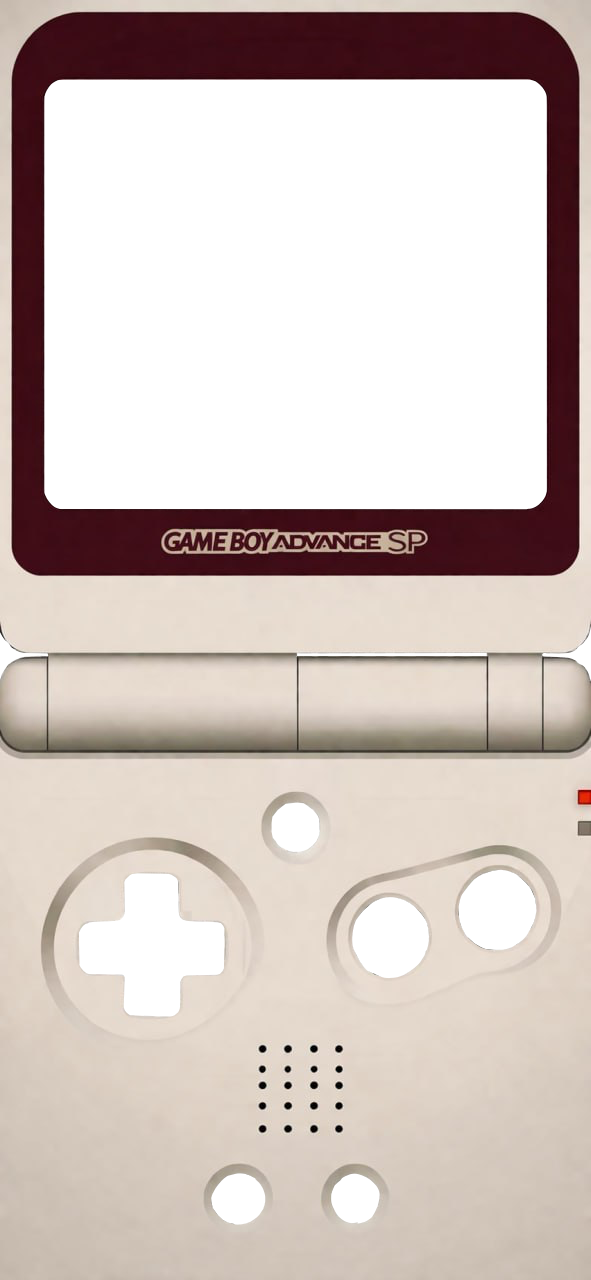
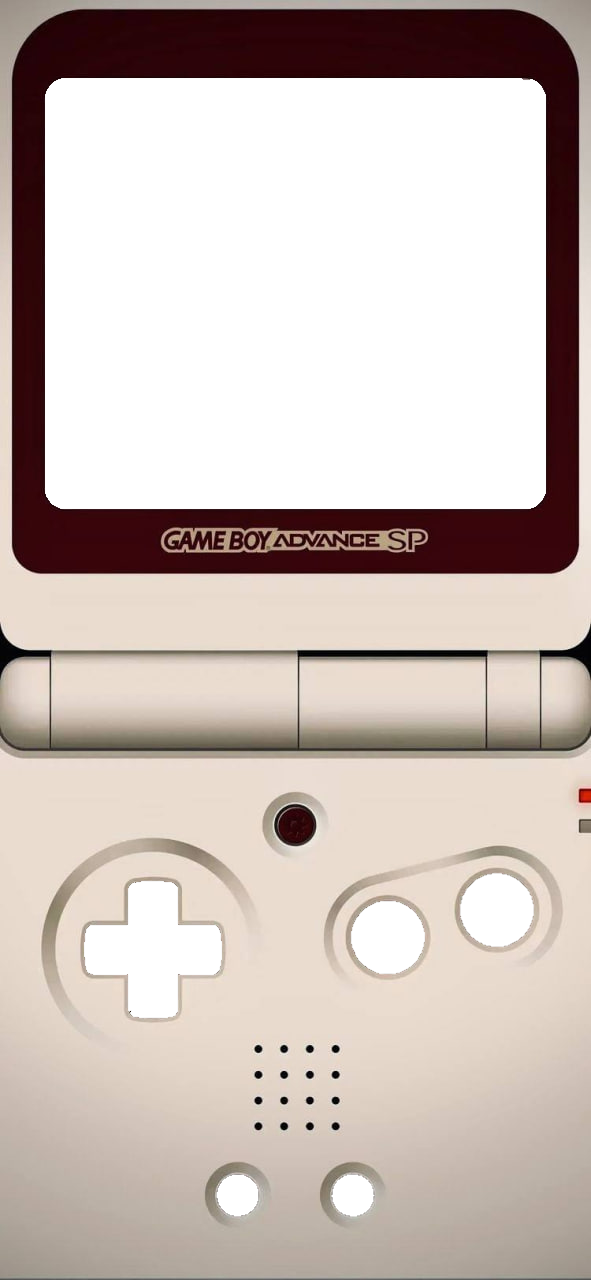
Use exact cutout assets for GBA controls

diff --git a/client/styles.override.css b/client/styles.override.css
@@ -3839,6 +3839,7 @@ body.is-mobile-device #room-view.room-view--mobile-fs .mobile-handheld__body::be
 body.is-mobile-device #room-view.room-view--mobile-fs .mobile-handheld__body .gba-sp-lid-copy,
 body.is-mobile-device #room-view.room-view--mobile-fs .mobile-handheld__body .gba-sp-logo,
 body.is-mobile-device #room-view.room-view--mobile-fs .mobile-handheld__body .gba-sp-hinge,
+body.is-mobile-device #room-view.room-view--mobile-fs .mobile-handheld__body .gba-sp-power,
 body.is-mobile-device #room-view.room-view--mobile-fs .mobile-handheld__body .gba-sp-status,
 body.is-mobile-device #room-view.room-view--mobile-fs .mobile-handheld__body .gba-sp-speaker,
 body.is-mobile-device #room-view.room-view--mobile-fs .mobile-handheld__body .touch-center__label,
@@ -3846,7 +3847,8 @@ body.is-mobile-device #room-view.room-view--mobile-fs .mobile-handheld__body .to
 body.is-mobile-device #room-view.room-view--mobile-fs .mobile-handheld__body .touch-dpad__hint,
 body.is-mobile-device #room-view.room-view--mobile-fs .mobile-handheld__body .touch-action::before,
 body.is-mobile-device #room-view.room-view--mobile-fs .mobile-handheld__body .touch-pill::after,
-body.is-mobile-device #room-view.room-view--mobile-fs .mobile-handheld__body .mobile-screen-shell::after {
+body.is-mobile-device #room-view.room-view--mobile-fs .mobile-handheld__body .mobile-screen-shell::after,
+body.is-mobile-device #room-view.room-view--mobile-fs .mobile-handheld__body .mobile-screen-shell > .screen-overlay {
   display: none !important;
 }
 
@@ -3868,9 +3870,9 @@ body.is-mobile-device #room-view.room-view--mobile-fs .mobile-handheld__body .mo
 
 body.is-mobile-device #room-view.room-view--mobile-fs .mobile-handheld__body .mobile-screen-shell {
   position: absolute !important;
-  left: 7.6142% !important;
-  top: 6.25% !important;
-  width: 84.7716% !important;
+  left: 7.7834% !important;
+  top: 6.1719% !important;
+  width: 84.4332% !important;
   height: 33.5156% !important;
   margin: 0 !important;
   padding: 0 !important;
@@ -3907,36 +3909,11 @@ body.is-mobile-device #room-view.room-view--mobile-fs .mobile-handheld__body .mo
   background: #000 !important;
 }
 
-body.is-mobile-device #room-view.room-view--mobile-fs .mobile-handheld__body .mobile-screen-shell > .screen-overlay {
-  inset: 0 !important;
-  z-index: 2 !important;
-  border: 0 !important;
-  border-radius: inherit !important;
-  background: rgba(0, 0, 0, 0.38) !important;
-}
-
-body.is-mobile-device #room-view.room-view--mobile-fs .mobile-handheld__body .gba-sp-power {
-  position: absolute !important;
-  left: 46.0237% !important;
-  top: 62.7344% !important;
-  width: 7.9526% !important;
-  height: 3.75% !important;
-  display: block !important;
-  margin: 0 !important;
-  border: 0 !important;
-  border-radius: 999px !important;
-  transform: none !important;
-  background: url("/assets/gba-sp/button-start-tight.png") center / 100% 100% no-repeat !important;
-  box-shadow: none !important;
-  pointer-events: none !important;
-  z-index: 3 !important;
-}
-
 body.is-mobile-device #room-view.room-view--mobile-fs .mobile-handheld__body .touch-dpad {
   position: absolute !important;
-  left: 13.3672% !important;
-  top: 68.2812% !important;
-  width: 24.5347% !important;
+  left: 13.7056% !important;
+  top: 68.5938% !important;
+  width: 24.1963% !important;
   height: 11.0938% !important;
   margin: 0 !important;
   padding: 0 !important;
@@ -3944,6 +3921,10 @@ body.is-mobile-device #room-view.room-view--mobile-fs .mobile-handheld__body .to
   background: none !important;
   box-shadow: none !important;
   pointer-events: auto !important;
+  touch-action: manipulation !important;
+  -webkit-tap-highlight-color: transparent !important;
+  user-select: none !important;
+  -webkit-user-select: none !important;
   z-index: 3 !important;
 }
 
@@ -3958,7 +3939,6 @@ body.is-mobile-device #room-view.room-view--mobile-fs .mobile-handheld__body .to
   inset: 0 !important;
   display: block !important;
   background: url("/assets/gba-sp/dpad.png") center / 100% 100% no-repeat !important;
-  clip-path: polygon(33% 0, 67% 0, 67% 33%, 100% 33%, 100% 67%, 67% 67%, 67% 100%, 33% 100%, 33% 67%, 0 67%, 0 33%, 33% 33%) !important;
 }
 
 body.is-mobile-device #room-view.room-view--mobile-fs .mobile-handheld__body .touch-ab,
@@ -3994,44 +3974,50 @@ body.is-mobile-device #room-view.room-view--mobile-fs .mobile-handheld__body .to
   color: transparent !important;
   font-size: 0 !important;
   line-height: 0 !important;
+  text-indent: -9999px !important;
   text-shadow: none !important;
   white-space: nowrap !important;
   overflow: hidden !important;
   pointer-events: auto !important;
   touch-action: manipulation !important;
+  -webkit-appearance: none !important;
+  appearance: none !important;
+  -webkit-tap-highlight-color: transparent !important;
+  user-select: none !important;
+  -webkit-user-select: none !important;
   z-index: 3 !important;
 }
 
 body.is-mobile-device #room-view.room-view--mobile-fs .mobile-handheld__body .touch-action--a {
   left: 77.665% !important;
   top: 67.9688% !important;
-  width: 13.0288% !important;
-  height: 6.1719% !important;
+  width: 12.6904% !important;
+  height: 6.25% !important;
   background-image: url("/assets/gba-sp/button-a.png") !important;
 }
 
 body.is-mobile-device #room-view.room-view--mobile-fs .mobile-handheld__body .touch-action--b {
-  left: 59.7293% !important;
-  top: 70.1562% !important;
+  left: 59.2217% !important;
+  top: 70.0781% !important;
   width: 12.6904% !important;
   height: 6.25% !important;
   background-image: url("/assets/gba-sp/button-b.png") !important;
 }
 
 body.is-mobile-device #room-view.room-view--mobile-fs .mobile-handheld__body .touch-pill--select {
-  left: 35.8714% !important;
-  top: 91.7188% !important;
+  left: 35.7022% !important;
+  top: 91.4844% !important;
   width: 8.9679% !important;
   height: 3.9062% !important;
-  background-image: url("/assets/gba-sp/button-select-tight.png") !important;
+  background-image: url("/assets/gba-sp/button-select.png") !important;
 }
 
 body.is-mobile-device #room-view.room-view--mobile-fs .mobile-handheld__body .touch-pill--start {
-  left: 56.176% !important;
-  top: 91.7188% !important;
+  left: 55.8376% !important;
+  top: 91.4844% !important;
   width: 7.9526% !important;
   height: 3.8281% !important;
-  background-image: url("/assets/gba-sp/button-start-tight.png") !important;
+  background-image: url("/assets/gba-sp/button-start.png") !important;
 }
 
 body.is-mobile-device #room-view.room-view--mobile-fs .mobile-handheld__body .touch-dpad:focus,
@@ -4043,6 +4029,6 @@ body.is-mobile-device #room-view.room-view--mobile-fs .mobile-handheld__body .to
 body.is-mobile-device #room-view.room-view--mobile-fs .mobile-handheld__body .touch-dpad--active .touch-dpad__cross,
 body.is-mobile-device #room-view.room-view--mobile-fs .mobile-handheld__body .touch-action.touch-control--active,
 body.is-mobile-device #room-view.room-view--mobile-fs .mobile-handheld__body .touch-pill.touch-control--active {
-  transform: translateY(1.5px) scale(0.975) !important;
-  filter: brightness(0.96) !important;
+  transform: translateY(1px) scale(0.985) !important;
+  filter: brightness(0.94) !important;
 }

diff --git a/client/index.html b/client/index.html
@@ -6,7 +6,7 @@
     <title>NES Switch Online</title>
     <script src="https://telegram.org/js/telegram-web-app.js?61"></script>
     <link rel="stylesheet" href="/styles.css" />
-    <link rel="stylesheet" href="/styles.override.css?v=20260328-2219" />
+    <link rel="stylesheet" href="/styles.override.css?v=20260328-2338" />
   </head>
   <body>
     <div class="scene">
@@ -302,6 +302,6 @@
     </div>
 
     <script src="/socket.io/socket.io.js"></script>
-    <script type="module" src="/app.js?v=20260328-2219"></script>
+    <script type="module" src="/app.js?v=20260328-2338"></script>
   </body>
 </html>
